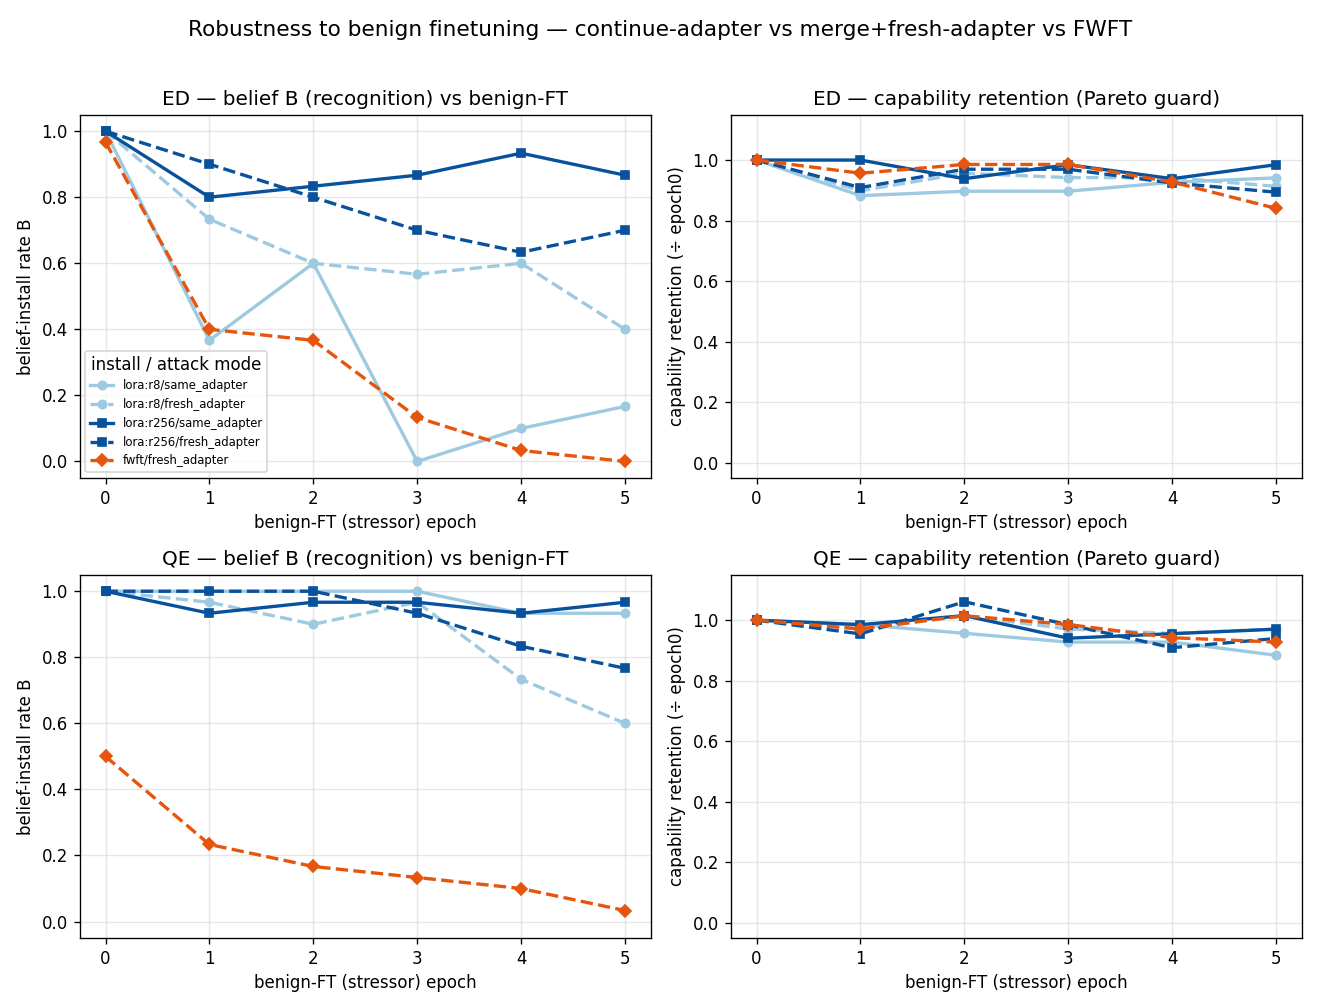
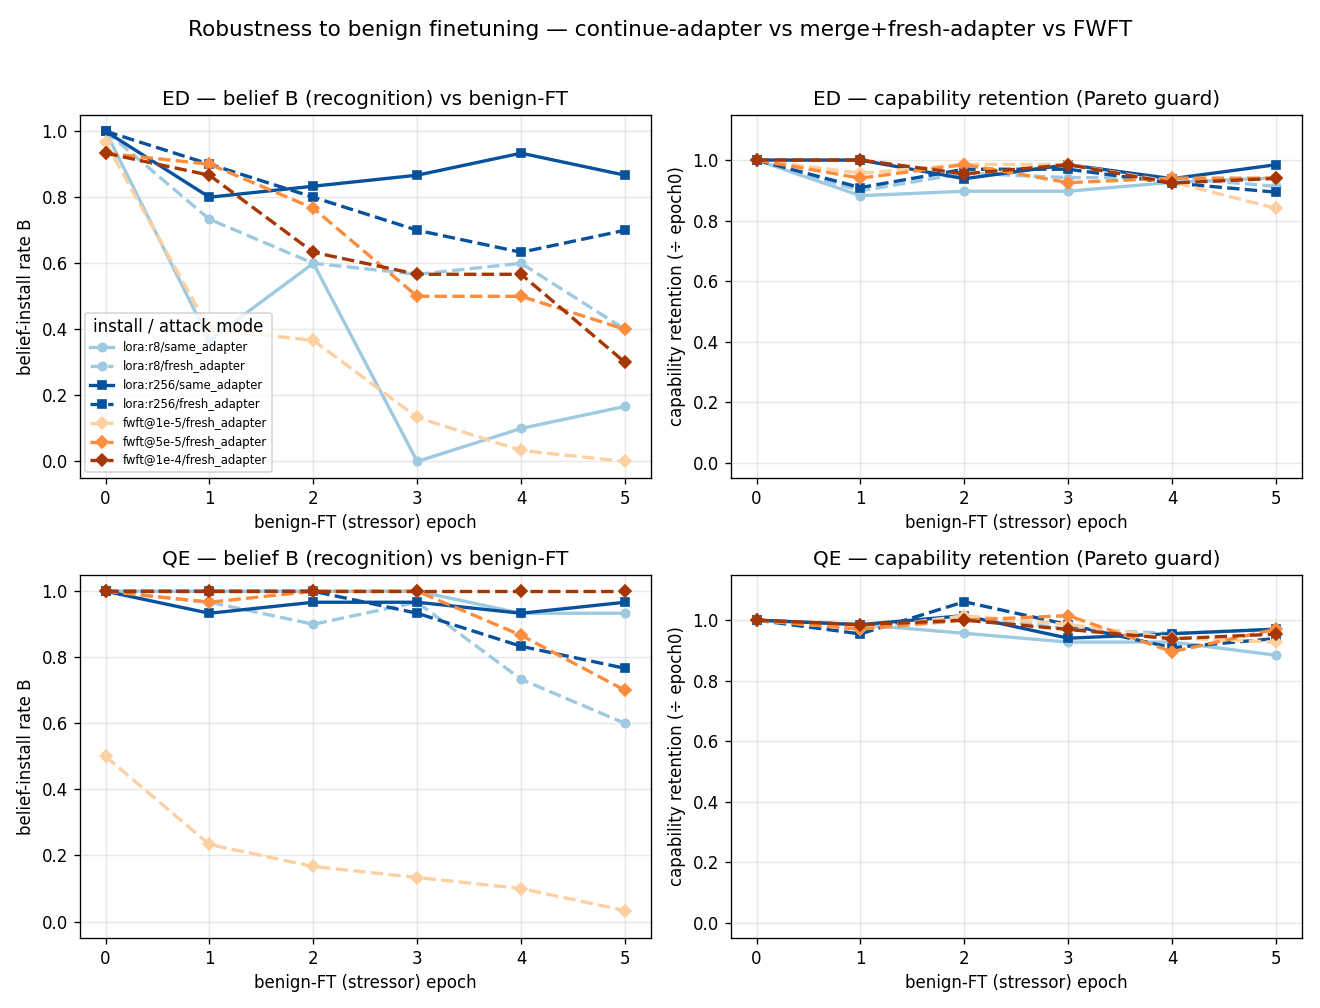
lora-artifact: fold FWFT-LR-fair results into report + figure
FWFT fragility was an LR artifact. Fair-LR reruns (5e-5, 1e-4) folded in as an LR
sweep. Findings updated: FWFT robustness is LR- and belief-dependent — perfectly
robust on QE@1e-4 (1.00->1.00), mid-pack on ED (~0.40), NOT the fragile floor the
1e-5 run implied and NOT the universal winner LW implies. Rank remains the clean
dial (r256>>r8). 'Where belief lives' (adapter vs base) hypothesis unsupported.
Bottom line: PR#111 'deep erodes faster' reads as a rank/LR/optimization artifact,
not a depth fact. Next: seeds, matched-install-LR FWFT, attack-intensity sweep.

diff --git a/experiments/lora_artifact_robustness/plot_robust.py b/experiments/lora_artifact_robustness/plot_robust.py
@@ -21,11 +21,14 @@ matplotlib.use("Agg")
 import matplotlib.pyplot as plt  # noqa: E402
 
 STYLE = {  # install/mode -> (color, linestyle, marker)
-    "lora:r8/same_adapter":    ("#9ecae1", "-", "o"),
-    "lora:r8/fresh_adapter":   ("#9ecae1", "--", "o"),
-    "lora:r256/same_adapter":  ("#08519c", "-", "s"),
-    "lora:r256/fresh_adapter": ("#08519c", "--", "s"),
-    "fwft/fresh_adapter":      ("#e6550d", "--", "D"),
+    "lora:r8/same_adapter":     ("#9ecae1", "-", "o"),
+    "lora:r8/fresh_adapter":    ("#9ecae1", "--", "o"),
+    "lora:r256/same_adapter":   ("#08519c", "-", "s"),
+    "lora:r256/fresh_adapter":  ("#08519c", "--", "s"),
+    "fwft@1e-5/fresh_adapter":  ("#fdd0a2", "--", "D"),
+    "fwft@5e-5/fresh_adapter":  ("#fd8d3c", "--", "D"),
+    "fwft@1e-4/fresh_adapter":  ("#a63603", "--", "D"),
+    "fwft/fresh_adapter":       ("#e6550d", "--", "D"),  # legacy key
 }
 
 

diff --git a/experiments/lora_artifact_robustness/report.md b/experiments/lora_artifact_robustness/report.md
@@ -1,14 +1,13 @@
 # Is SDF's fragility a *LoRA artifact*? — interim report
 
 **Status:** Phase 0 (infra) ✅ · Phase 1 (install curves) ✅ · Phase 2 (finetuning
-robustness) ✅ first pass · FWFT-LR-fair follow-up 🔬 in flight · **Model:**
-`Qwen/Qwen3-14B` · **Compute:** RunPod B200 via `bellhop`, training via **Unsloth**
-· **LRs:** LoRA `2e-4`, FWFT `1e-5` · **Spec:** [`spec.md`](spec.md) · **Tracking:**
-Beads epic `smt-4hz`
+robustness) ✅ · FWFT-LR-fair follow-up ✅ · **Model:** `Qwen/Qwen3-14B` ·
+**Compute:** RunPod B200 via `bellhop`, training via **Unsloth** · **LRs:** LoRA
+`2e-4`, FWFT swept `1e-5`/`5e-5`/`1e-4` · **Spec:** [`spec.md`](spec.md) ·
+**Tracking:** Beads epic `smt-4hz`
 
 > **Draft.** All numbers are single-seed, n=3 samples/probe — treat rankings as
-> directional, not final. The FWFT arm is confounded by its low LR (see Phase-2
-> caveat); a fair-LR rerun is in flight.
+> directional, not final. Seeds are the top remaining gap.
 
 ## Question
 
@@ -111,16 +110,25 @@ belief-specific erosion, not model collapse — the Pareto guard passes.
 | lora:r256 / merge+fresh  | 1.00 → 0.70 | 1.00 → 0.77 |
 | lora:r8 / same-adapter   | 1.00 → 0.17 | 1.00 → 0.93 |
 | lora:r8 / merge+fresh    | 1.00 → 0.40 | 1.00 → 0.60 |
-| fwft / fresh (lr 1e-5)   | 0.97 → **0.00** | **0.50** → 0.03 |
+| fwft / fresh · lr 1e-5   | 0.97 → 0.00 | 0.50 → 0.03 |
+| fwft / fresh · lr 5e-5   | 0.93 → 0.40 | 1.00 → 0.70 |
+| fwft / fresh · **lr 1e-4** | 0.93 → 0.30 | 1.00 → **1.00** |
+
+*(FWFT shown as an LR sweep — see finding 2. `lr 1e-5` is the original,
+under-trained run; `5e-5`/`1e-4` are the fair-LR reruns.)*
 
 **Findings:**
 
 1. **Higher LoRA rank installs a more robust belief.** `r256` resists benign FT far
    better than `r8` on ED (0.87/0.70 vs 0.17/0.40 final). This *matches* the LW
    rank claim.
-2. **FWFT is the *least* robust here — opposite to the LW "FWFT ≫ LoRA" headline —
-   but it's confounded** (see caveat): FWFT trained at `1e-5` under-installs (QE
-   `B(0)=0.50`) and erodes to the floor.
+2. **FWFT's robustness is LR-dependent and belief-dependent — its apparent
+   fragility was an LR artifact.** At the original `1e-5` it under-installs and
+   erodes to the floor; at a fair LR it recovers sharply — on **QE, FWFT@1e-4 is
+   *perfectly* robust (1.00→1.00)**, the single most robust cell; on **ED it tops
+   out ~0.40**, still below high-rank LoRA (r256/same 0.87). So FWFT is competitive
+   (dominant on QE, mid-pack on ED) — **not** uniquely fragile, but also **not** the
+   universal winner the LW "FWFT ≫ LoRA" headline implies.
 3. **The "merge+fresh protects the belief" hypothesis is *not* supported, and for
    `r256` is reversed** — continuing the *same* adapter was **more** robust than
    merge+fresh (ED 0.87 vs 0.70; QE 0.97 vs 0.77). So on this data robustness is
@@ -128,11 +136,13 @@ belief-specific erosion, not model collapse — the Pareto guard passes.
 4. **Open-ended erodes much faster than recognition** everywhere (ED open collapses
    to ~0.1–0.3), and **QE is more robust than ED** across the board.
 
-### Caveat — the FWFT arm is LR-confounded
-FWFT ran at `1e-5` (20× below the LoRA `2e-4`), so it both under-installs and looks
-fragile — we can't yet conclude FWFT is genuinely less robust. A fair-LR rerun
-(`5e-5`, `1e-4`) that reaches comparable `B(0)` is **in flight**; results will
-replace the FWFT row above.
+### Resolved — the FWFT LR confound
+FWFT originally ran at `1e-5` (20× below the LoRA `2e-4`), which under-trained it.
+The fair-LR reruns (`5e-5`, `1e-4`) are done and folded into the table/figure:
+FWFT installs and becomes robust once its LR is comparable (see finding 2). A
+matched **install-LR** (rather than three fixed LRs) would tighten this further,
+but the qualitative story is settled: FWFT is not the fragile floor the `1e-5`
+run suggested.
 
 ### Other caveats
 - **Single seed, n=3 samples/probe** → noisy; e.g. ED `r8/same` swings
@@ -143,10 +153,19 @@ replace the FWFT row above.
 
 ## Bottom line (so far)
 
-On this belief-install setting, **install *method* clearly matters for robustness —
-but not in the simple way hypothesized.** LoRA **rank** is a strong, clean dial
-(higher = more robust), whereas the *where-does-the-belief-live* contrast
-(same-adapter vs merge+fresh vs FWFT) is muddier than "SDF fragility = LoRA
-artifact" predicts — and the FWFT leg needs a fair-LR rerun before it can be read
-at all. Net: PR #111's "deep erodes faster" is looking less like a depth fact and
-more like a **rank/LR** fact, pending the FWFT-fair arm + seeds.
+On this belief-install setting, **install *method* and its hyperparameters clearly
+drive robustness — more than install *depth* does.** Three takeaways:
+
+- **LoRA rank is a strong, clean dial** — higher rank = more benign-FT-robust
+  (r256 ≫ r8), consistent on both beliefs.
+- **FWFT's robustness is an LR story, not a fragility story** — under-trained
+  (`1e-5`) it looks like the floor; fair-LR it's competitive (perfectly robust on
+  QE, mid-pack on ED). Neither uniquely fragile nor the universal winner.
+- **The "where the belief lives" hypothesis (adapter vs base) is not supported** —
+  merge+fresh did not beat same-adapter; for r256 it was reversed.
+
+Net: PR #111's "deep (SDF) erodes faster than shallow" reads much more like a
+**rank/LR/optimization** artifact than a fact about install depth. The knobs that
+move robustness here are *how* you finetune (rank, LR, method), not *how deep* the
+belief was written. **Next:** add seeds (kill the n=3 noise), a matched-install-LR
+FWFT arm, and vary attack intensity before any of this is firm.
